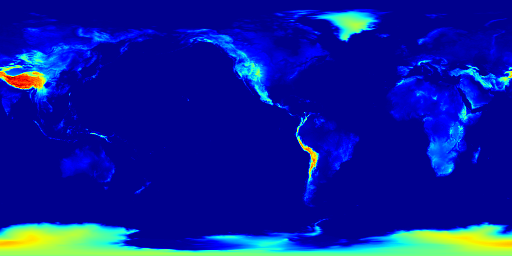
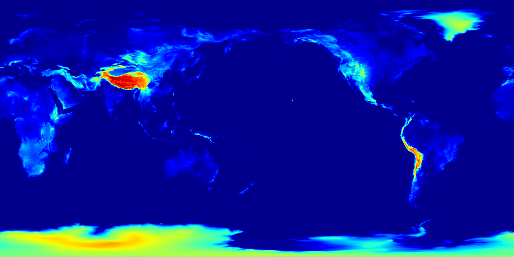
upd oro.png

diff --git a/poc/oro.py b/poc/oro.py
@@ -4,10 +4,12 @@ import numpy as np
 class g:
     pass
 
-g.nx = 512
-g.ny = 256
+g.m = 171
+g.l = g.m + 1
+g.nx = 3 * g.m + 1
+g.ny = g.nx // 2
 oro = np.memmap("oro.raw", dtype=float).reshape((g.nx, g.ny))
 oro = np.flipud(oro.T)
-oro = np.roll(oro, -g.nx//5, axis=1)
+# oro = np.roll(oro, -g.nx//5, axis=1)
 # oro = np.roll(oro, g.ny//4, axis=0)
 plt.imsave(f"oro.png", oro, cmap="jet")
